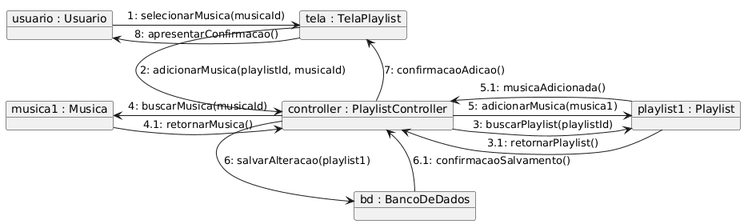
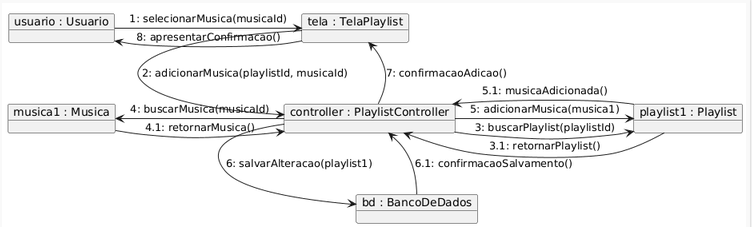
att

Changed region(s): [[0.0, 0.0, 1.0, 1.0], [0.2782, 0.6875, 0.4946, 0.7812], [0.3091, 0.7812, 0.4019, 0.875]]

diff --git a/05 - Diagrama de Comunicação/atividade/Resposta.md b/05 - Diagrama de Comunicação/atividade/Resposta.md
@@ -156,7 +156,9 @@ Para o cenário de **Adicionar Música à Playlist**, o Usuário seleciona uma m
 
 ```plantuml
 @startuml
+
 skinparam maxMessageSize 150
+skinparam responseMessageBelowArrow true
 
 actor Usuario
 boundary TelaPlaylist
@@ -166,27 +168,54 @@ entity Musica
 database BancoDeDados as BD
 
 Usuario -> TelaPlaylist: selecionarMusica(musicaId)
+activate TelaPlaylist
+
 TelaPlaylist -> PlaylistController: adicionarMusica(playlistId, musicaId)
+activate PlaylistController
 
 PlaylistController -> Playlist: buscarPlaylist(playlistId)
+activate Playlist
 Playlist --> PlaylistController: playlist
+deactivate Playlist
 
 PlaylistController -> Musica: buscarMusica(musicaId)
+activate Musica
 Musica --> PlaylistController: musica
+deactivate Musica
 
-PlaylistController -> Playlist: adicionarMusica(musica)
-Playlist --> PlaylistController: musicaAdicionada()
+PlaylistController -> Playlist: verificarMusica(musica)
+activate Playlist
+Playlist --> PlaylistController: musicaExiste
+deactivate Playlist
 
-PlaylistController -> BD: salvarAlteracao(playlist)
-BD --> PlaylistController: confirmacaoSalvamento()
+alt Música não está na playlist
 
-PlaylistController --> TelaPlaylist: confirmacaoAdicao()
-TelaPlaylist --> Usuario: apresentarConfirmacao()
+    PlaylistController -> Playlist: adicionarMusica(musica)
+    activate Playlist
+    Playlist --> PlaylistController: musicaAdicionada()
+    deactivate Playlist
+
+    PlaylistController -> BD: salvarAlteracao(playlist)
+    activate BD
+    BD --> PlaylistController: confirmacaoSalvamento()
+    deactivate BD
+
+    PlaylistController --> TelaPlaylist: confirmacaoAdicao()
+    
+else Música já está na playlist
+
+    PlaylistController --> TelaPlaylist: musicaJaAdicionada()
+
+end
+
+deactivate PlaylistController
+
+TelaPlaylist --> Usuario: apresentarResultado()
+deactivate TelaPlaylist
 
 @enduml
 ```
-
-![Imagem](04.png)
+![imagem](04.png)
 
 ---
 
